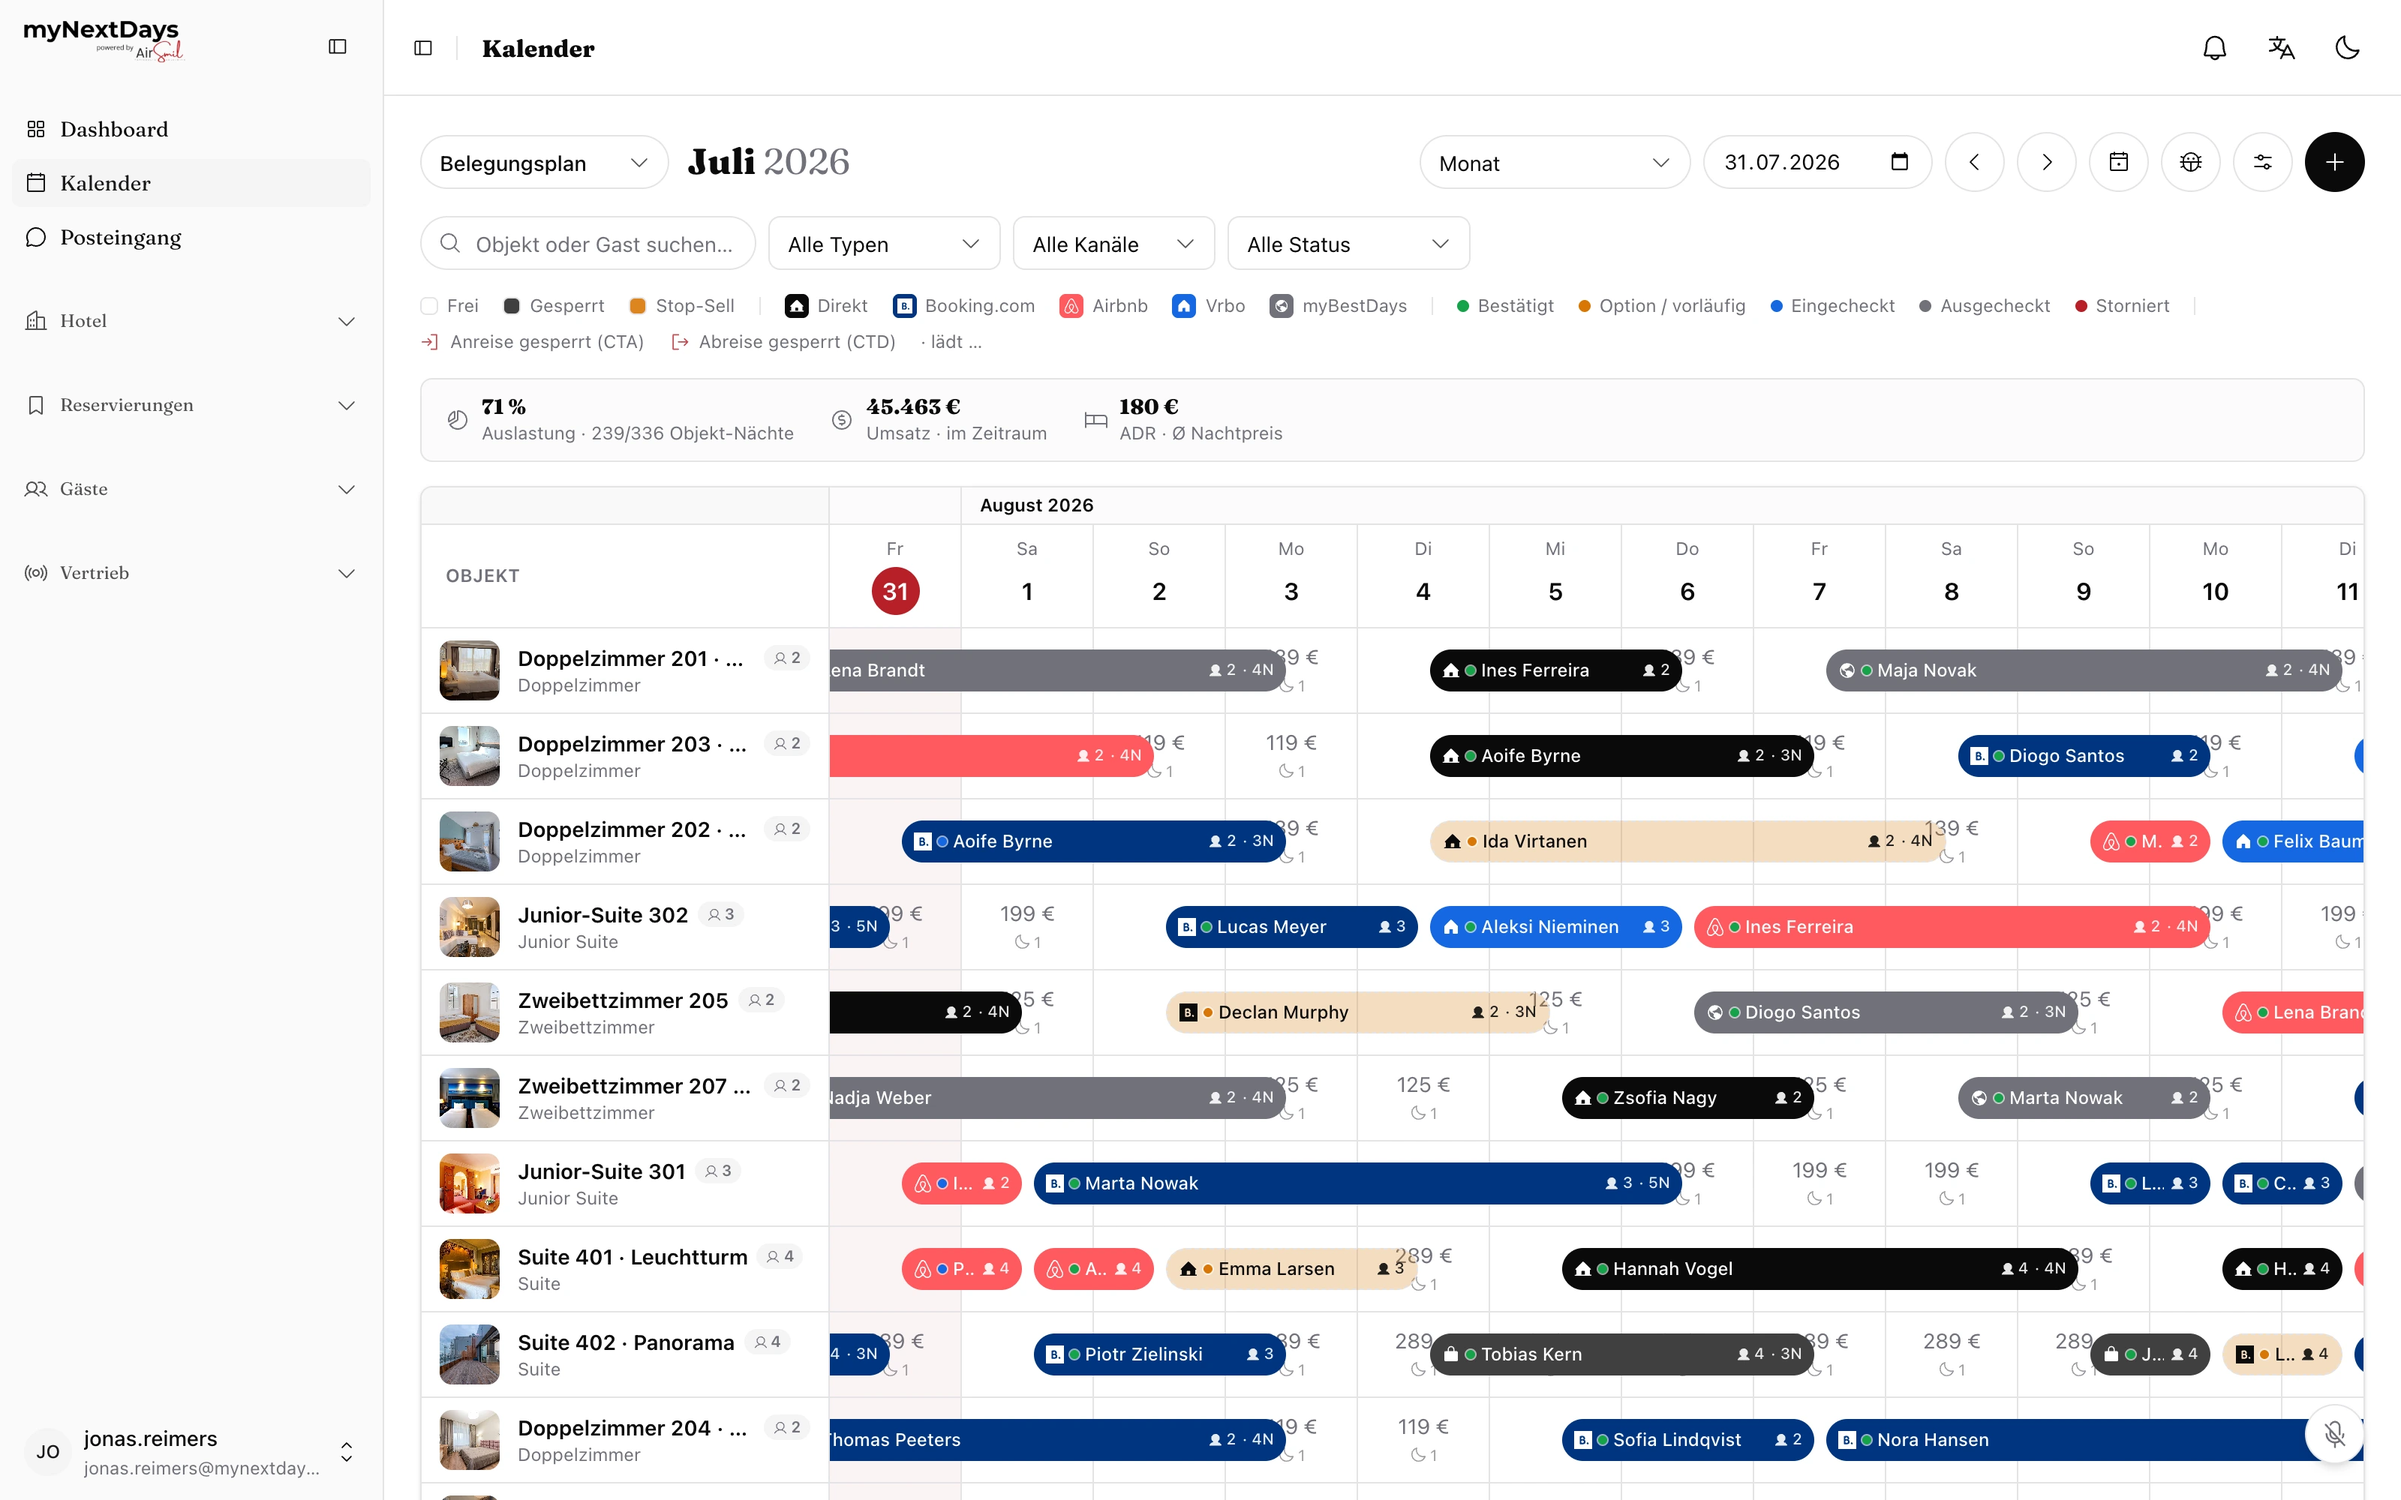
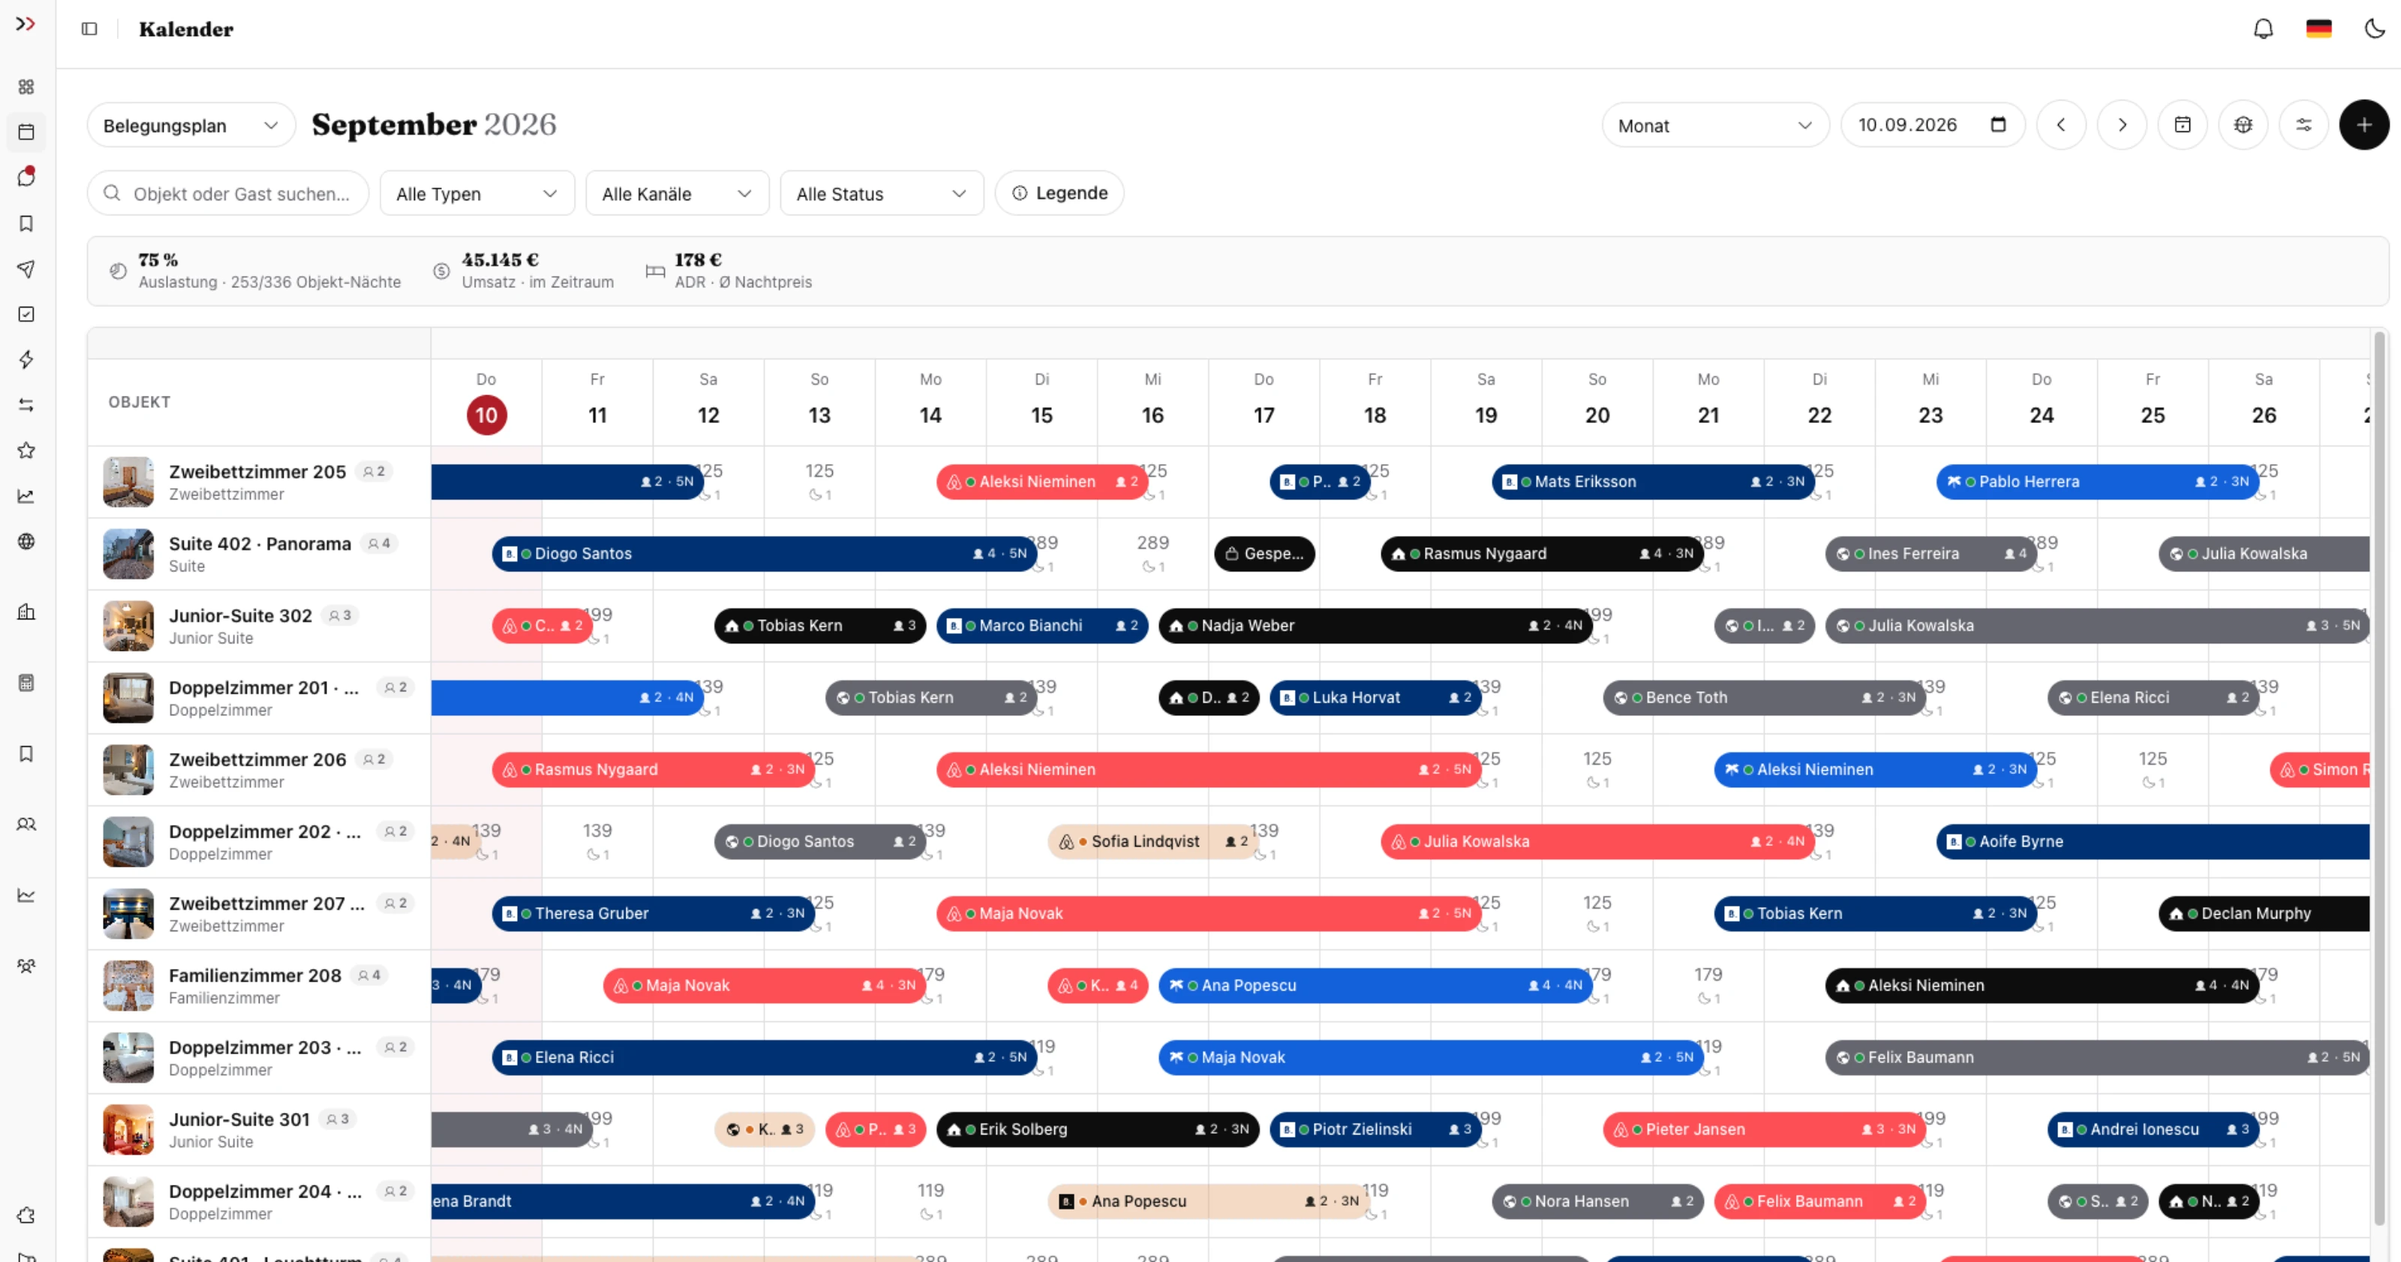
fix(marketing): Hero-Aufnahme ohne Vorfuehrungs-Overlay und ohne Altlogo
Die Startseite zeigte im Hero eine Aufnahme, auf der der Vorfuehrungs-Dialog
("Willkommen in der Vorfuehrung ... Weiter ... 1/9") quer ueber dem
Belegungsplan lag, dazu das Vorfuehrungs-Banner am oberen Rand und unten links
der Debug-Streifen "Betrieb 69d24767 - 8 Objekte / Realtime 14/14". Das stand
so live auf der Verkaufsseite.

Ersetzt durch eine Aufnahme desselben Belegungsplans mit eingeklappter
Seitenleiste. Sie traegt damit auch nicht mehr das Logo "powered by AirSmil",
das am 24.08.2026 aus der Kundenkommunikation entfallen ist. Der waagerechte
Rollbalken am unteren Rand (gemessen y 1004-1021) ist vor dem Wandeln
weggeschnitten, nicht retuschiert.

Dasselbe Motiv steht im Hero und im Einblicke-Block. Geprueft statt vermutet:
zwischen beiden liegen 12716 px, also gut 14 Bildschirmhoehen - sie sind nie
zusammen im Bild.

Zwei Ursachen mitbehoben, weil sie sonst wiederkehren:

app-aufnahmen.json fuehrt jetzt die ECHTEN Pixelmasse je Datei. Vorher stand
dort nur die Dateiliste, und AppAufnahme rechnete fuer jedes Motiv mit fest
3200x2000. Falsch, sobald eine Aufnahme anders geschnitten ist: mobil-kalender
ist 860x1864 und war davon bereits betroffen. Mit falschem Mass reserviert Next
den falschen Platz und die Seite springt beim Laden. Der Generator in
web/scripts/marketing-aufnahmen.mjs schreibt die Masse jetzt mit; gegengeprueft,
dass er byte-identisch dieselbe Datei erzeugt.

sizes war fest auf 55vw verdrahtet, obwohl die Hero-Bildspalte ab 1280 px
[…]

diff --git a/marketing/components/marketing/app-aufnahme.tsx b/marketing/components/marketing/app-aufnahme.tsx
@@ -19,9 +19,13 @@ import VORHANDEN from "@/lib/app-aufnahmen.json";
 // fehlendes Bild ist ein Loch in der Seite.
 const ERSATZSPRACHEN = ["en", "de"];
 
-// Aufnahmemaß aus dem Skript (1600 × 1000 bei Faktor 2).
-const BREITE = 3200;
-const HOEHE = 2000;
+// Die echten Pixelmaße stehen JE DATEI im Katalog — nicht als zwei
+// Konstanten hier. Der Grund ist gemessen: `mobil-kalender` ist 860 × 1864,
+// und eine nachträglich beschnittene Aufnahme (Rollbalken entfernt) ist
+// niedriger als 2000. Mit einem festen Maß reserviert Next den falschen Platz,
+// und die Seite springt beim Laden.
+type Aufnahme = { breite: number; hoehe: number };
+const KATALOG = VORHANDEN as Record<string, Aufnahme>;
 
 /** Beste tatsächlich vorhandene Datei für Motiv/Thema/Sprache, sonst null.
  *
@@ -29,7 +33,11 @@ const HOEHE = 2000;
  * (`web/scripts/marketing-aufnahmen.mjs`). Fehlt eine Kombination — etwa weil
  * ein Lauf abgebrochen ist —, weicht die Seite auf eine vorhandene aus, statt
  * ein 404-Bild zu rendern. */
-function datei(name: string, thema: "light" | "dark", sprache: string): string | null {
+function datei(
+  name: string,
+  thema: "light" | "dark",
+  sprache: string,
+): { pfad: string; breite: number; hoehe: number } | null {
   const gegenthema = thema === "light" ? "dark" : "light";
   const kandidaten = [
     ...[sprache, ...ERSATZSPRACHEN].map((s) => `${name}-${thema}-${s}@2x.webp`),
@@ -37,8 +45,10 @@ function datei(name: string, thema: "light" | "dark", sprache: string): string |
     // andere Thema nehmen — lieber die falsche Helligkeit als kein Bild.
     ...[sprache, ...ERSATZSPRACHEN].map((s) => `${name}-${gegenthema}-${s}@2x.webp`),
   ];
-  const treffer = kandidaten.find((k) => (VORHANDEN as string[]).includes(k));
-  return treffer ? `/marketing/app/${treffer}` : null;
+  const treffer = kandidaten.find((k) => k in KATALOG);
+  if (!treffer) return null;
+  const { breite, hoehe } = KATALOG[treffer];
+  return { pfad: `/marketing/app/${treffer}`, breite, hoehe };
 }
 
 export function AppAufnahme({
@@ -46,11 +56,24 @@ export function AppAufnahme({
   alt,
   priority = false,
   className = "",
+  // Wie breit das Bild TATSÄCHLICH steht. Der Wert entscheidet, welche
+  // Auflösung Next ausliefert — zu klein heißt sichtbar weich auf jedem
+  // Retina-Schirm.
+  //
+  // Gemessen am 10.09.2026: der Standard `55vw` war für jede Aufnahme falsch,
+  // die in einer gedeckelten Spalte steht. Im Hero ist die Bildspalte ab
+  // 1280 px Fensterbreite konstant 620 px breit (max-w-7xl 1280 − 48 Rand −
+  // 48 Spalt = 1184, davon 1.1/2.1), `55vw` verlangte bei 2560 px aber 1408 px
+  // — der Browser wählte daraufhin eine Stufe, die für die echten 620 px × 2
+  // nicht reichte. Ergebnis auf ALLEN geprüften Breiten (1280–2560): geliefert
+  // 704–1173 px statt der nötigen 1236.
+  sizes = "(min-width: 1280px) 620px, (min-width: 1024px) 48vw, 100vw",
 }: {
   name: string;
   alt: string;
   priority?: boolean;
   className?: string;
+  sizes?: string;
 }) {
   const locale = useLocale();
   const hell = datei(name, "light", locale);
@@ -77,23 +100,23 @@ export function AppAufnahme({
           dunklen Seite sticht wie ein Fehler heraus. */}
       {hell ? (
         <Image
-          src={hell}
+          src={hell.pfad}
           alt={alt}
-          width={BREITE}
-          height={HOEHE}
+          width={hell.breite}
+          height={hell.hoehe}
           priority={priority}
-          sizes="(min-width: 1024px) 55vw, 100vw"
+          sizes={sizes}
           className={dunkel ? "block h-auto w-full dark:hidden" : "block h-auto w-full"}
         />
       ) : null}
       {dunkel ? (
         <Image
-          src={dunkel}
+          src={dunkel.pfad}
           alt={alt}
-          width={BREITE}
-          height={HOEHE}
+          width={dunkel.breite}
+          height={dunkel.hoehe}
           priority={priority}
-          sizes="(min-width: 1024px) 55vw, 100vw"
+          sizes={sizes}
           className={hell ? "hidden h-auto w-full dark:block" : "block h-auto w-full"}
         />
       ) : null}

diff --git a/marketing/components/marketing/marketing-hero.tsx b/marketing/components/marketing/marketing-hero.tsx
@@ -101,9 +101,20 @@ export function MarketingHero() {
 
         {/* Rechts: Produkt — echter Belegungsplan aus dem Demo-Betrieb.
             Der frühere DOM-Nachbau (ProductMockup) zeigte nur farbige Balken;
-            hier sehen Interessenten die Software, die sie kaufen sollen. */}
+            hier sehen Interessenten die Software, die sie kaufen sollen.
+
+            Gezeigt wird der HOTEL-Belegungsplan, nicht der mit acht
+            Ferienobjekten. Grund ist gemessen, nicht Geschmack: die frühere
+            Hero-Aufnahme (`belegungsplan`) zeigt den Vorführungs-Dialog
+            („Willkommen in der Vorführung … 1/9") quer über dem Raster, dazu
+            das Vorführungs-Banner oben und unten links den Debug-Streifen
+            „Betrieb 69d24767 · 8 Objekte / Realtime 14/14" — das stand so auf
+            der Startseite.
+            Dasselbe Motiv steht auch im Einblicke-Block weiter unten. Das ist
+            Absicht und geprüft: zwischen beiden liegen 12 716 px, also gut
+            14 Bildschirmhöhen — sie sind nie zusammen im Bild. */}
         <div className="pb-12 lg:pb-0">
-          <AppAufnahme name="belegungsplan" alt={t("aufnahmeBelegungsplan")} priority />
+          <AppAufnahme name="belegungsplan-hotel" alt={t("aufnahmeHotel")} priority />
         </div>
       </div>
 
